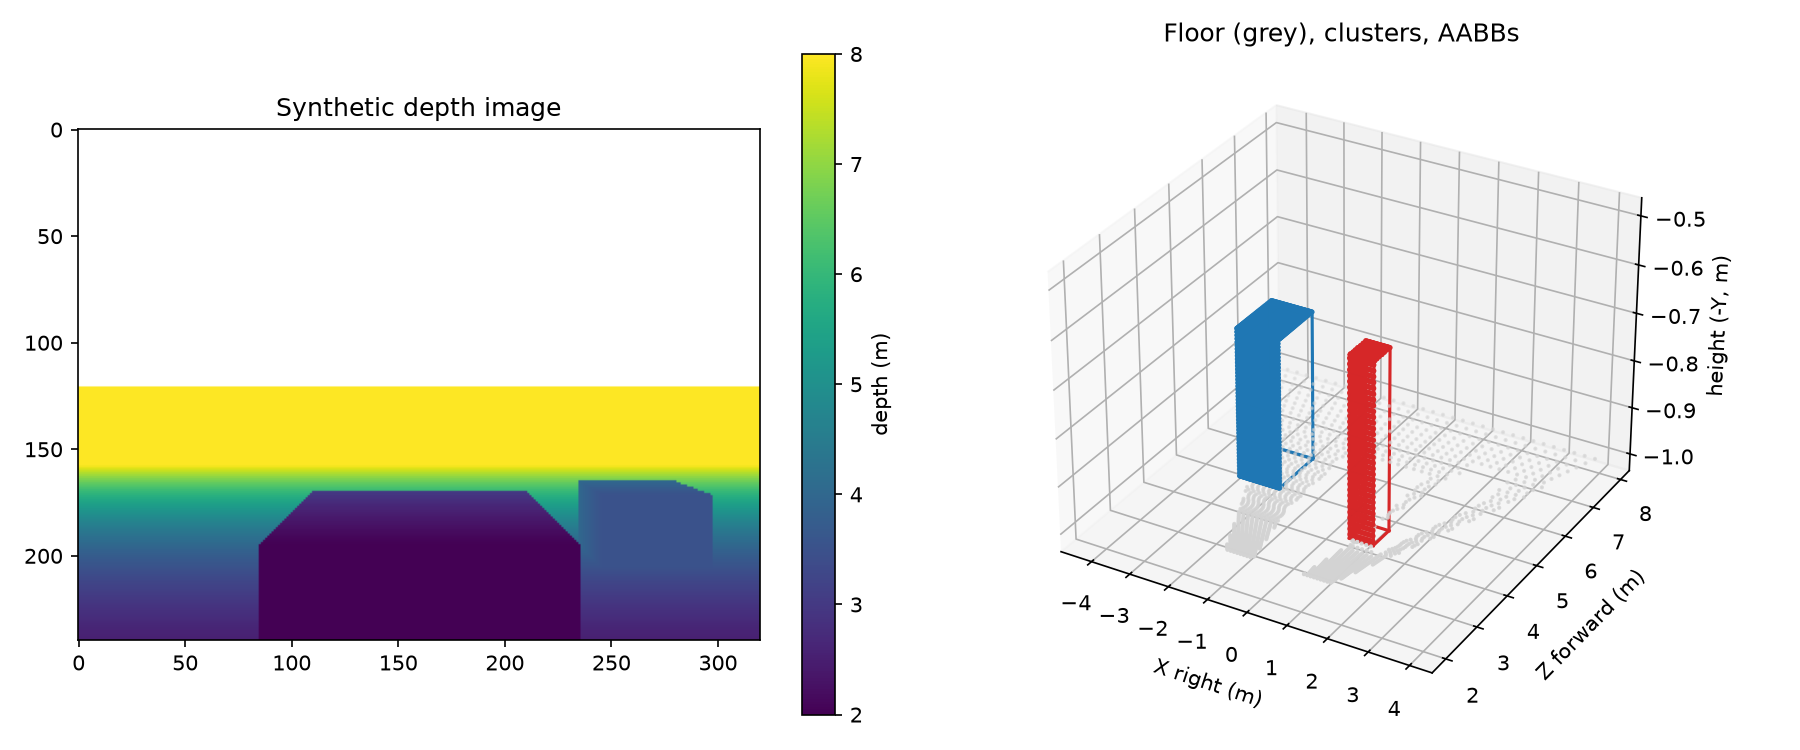
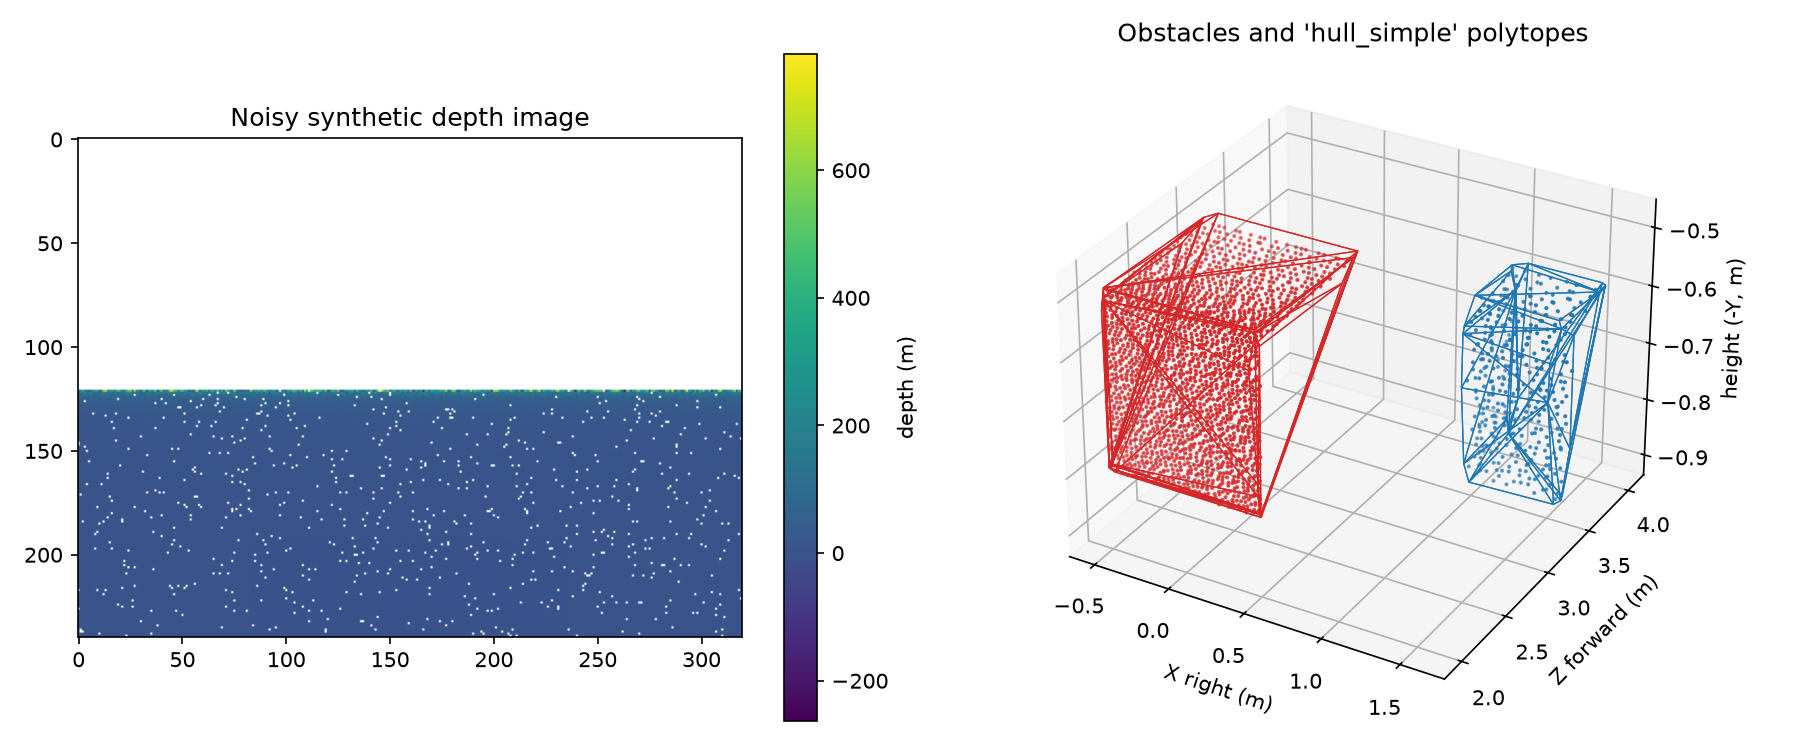
Fix generated image scaling issues

diff --git a/scripts/demo.py b/scripts/demo.py
@@ -17,6 +17,7 @@ from polytope3d.synthetic import Box, render_depth
 
 COLORS = ["tab:red", "tab:blue", "tab:green", "tab:orange"]
 
+SCRATCH = Path(__file__).resolve().parent.parent / "scratch"
 
 def draw_polytope(ax, poly, color):
     """Draw polytope edges in the (X, Z, -Y) view used for the scatter plot."""
@@ -55,7 +56,8 @@ def main():
 
     fig = plt.figure(figsize=(12, 5))
     ax1 = fig.add_subplot(1, 2, 1)
-    im = ax1.imshow(frame.depth)
+    shown = np.where(frame.depth <= config.max_range, frame.depth, np.nan)
+    im = ax1.imshow(shown, vmin=0, vmax=config.max_range)
     fig.colorbar(im, ax=ax1, label="depth (m)")
     ax1.set_title("Noisy synthetic depth image")
     ax2 = fig.add_subplot(1, 2, 2, projection="3d")
@@ -69,9 +71,8 @@ def main():
     ax2.set_zlabel("height (-Y, m)")
     ax2.set_title(f"Obstacles and '{args.method}' polytopes")
     plt.tight_layout()
-    Path("scratch").mkdir(exist_ok=True)
-    plt.savefig("scratch/demo.png", dpi=150)
-
+    SCRATCH.mkdir(exist_ok=True)
+    plt.savefig(SCRATCH / "demo.png", dpi=150)
 
 if __name__ == "__main__":
     main()

diff --git a/scripts/compare_algos.py b/scripts/compare_algos.py
@@ -17,6 +17,7 @@ from polytope3d.synthetic import Box, make_box_surface_cloud
 
 ALL_FITTERS = {**ALGORITHMS, **MULTI_ALGORITHMS}
 
+SCRATCH = Path(__file__).resolve().parent.parent / "scratch"
 
 def rotated_box_cloud(n):
     pts = make_box_surface_cloud(Box((-0.5, -0.2, -0.3), (0.5, 0.2, 0.3)), n).astype(np.float64)
@@ -86,9 +87,9 @@ def main():
         ax.set_xlabel("total planes")
         ax.set_ylabel("volume / hull volume")
         ax.set_title(cloud_name)
-    Path("scratch").mkdir(exist_ok=True)
+    SCRATCH.mkdir(exist_ok=True)
     plt.tight_layout()
-    plt.savefig("scratch/pareto.png", dpi=150)
+    plt.savefig(SCRATCH / "pareto.png", dpi=150)
 
 
 if __name__ == "__main__":
